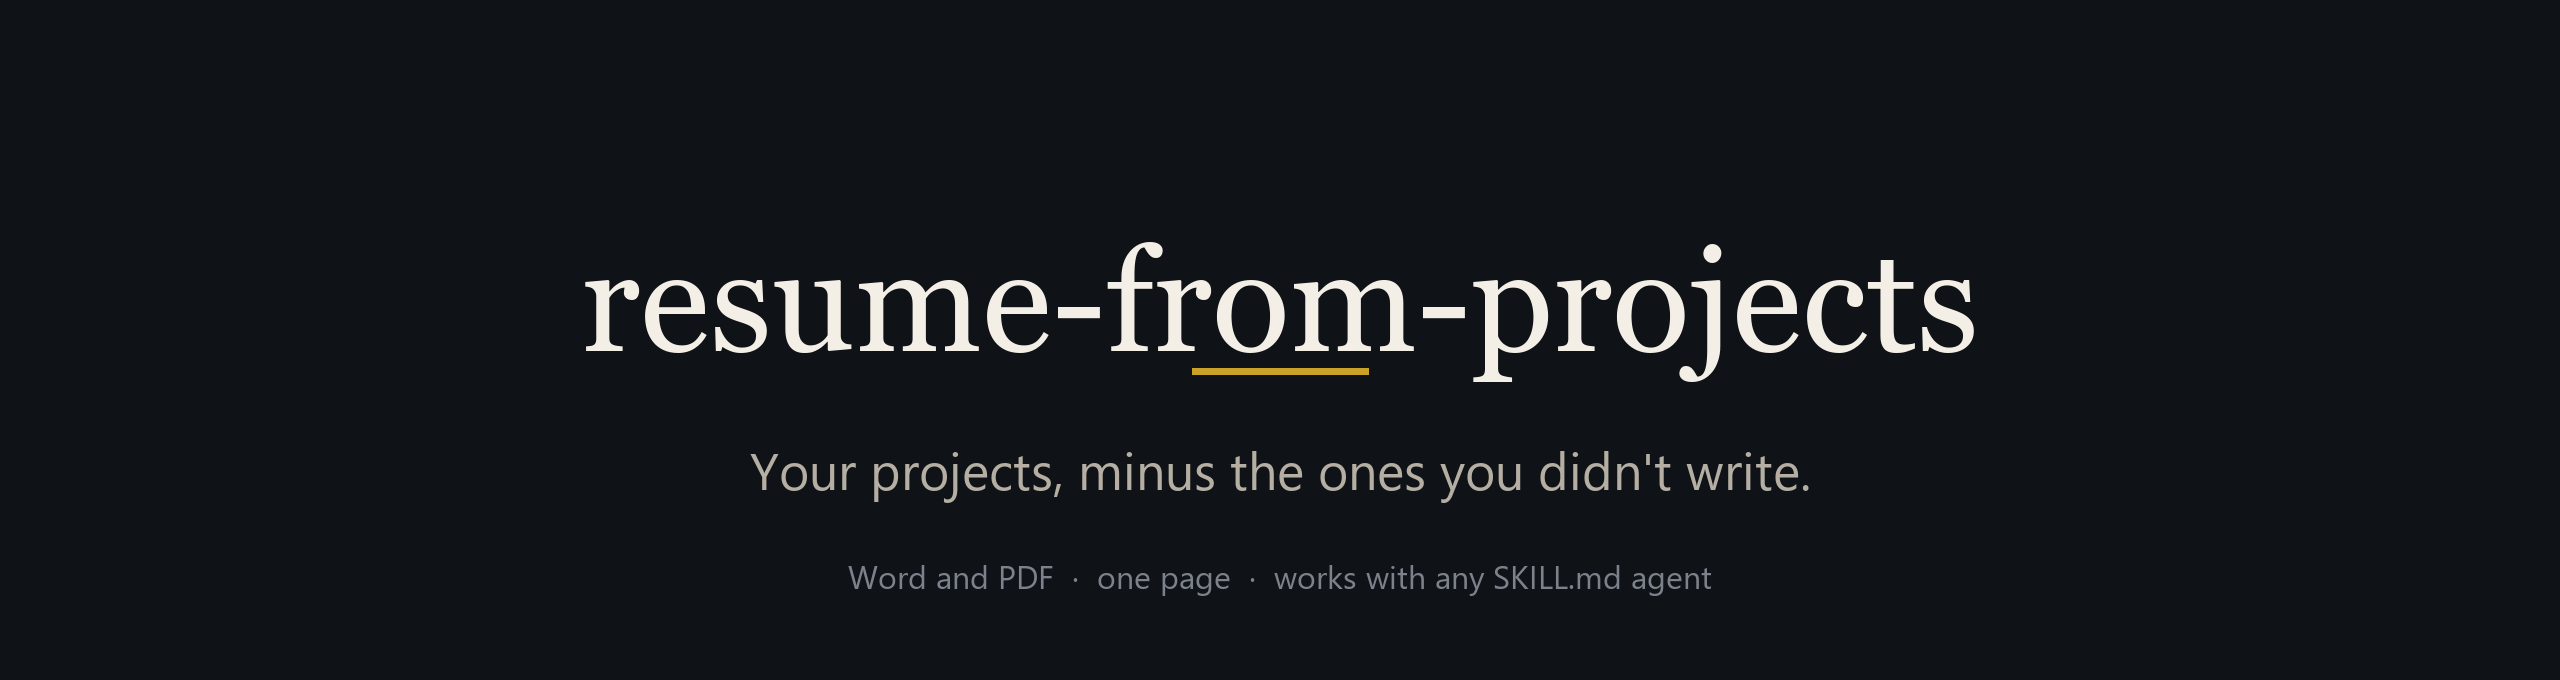
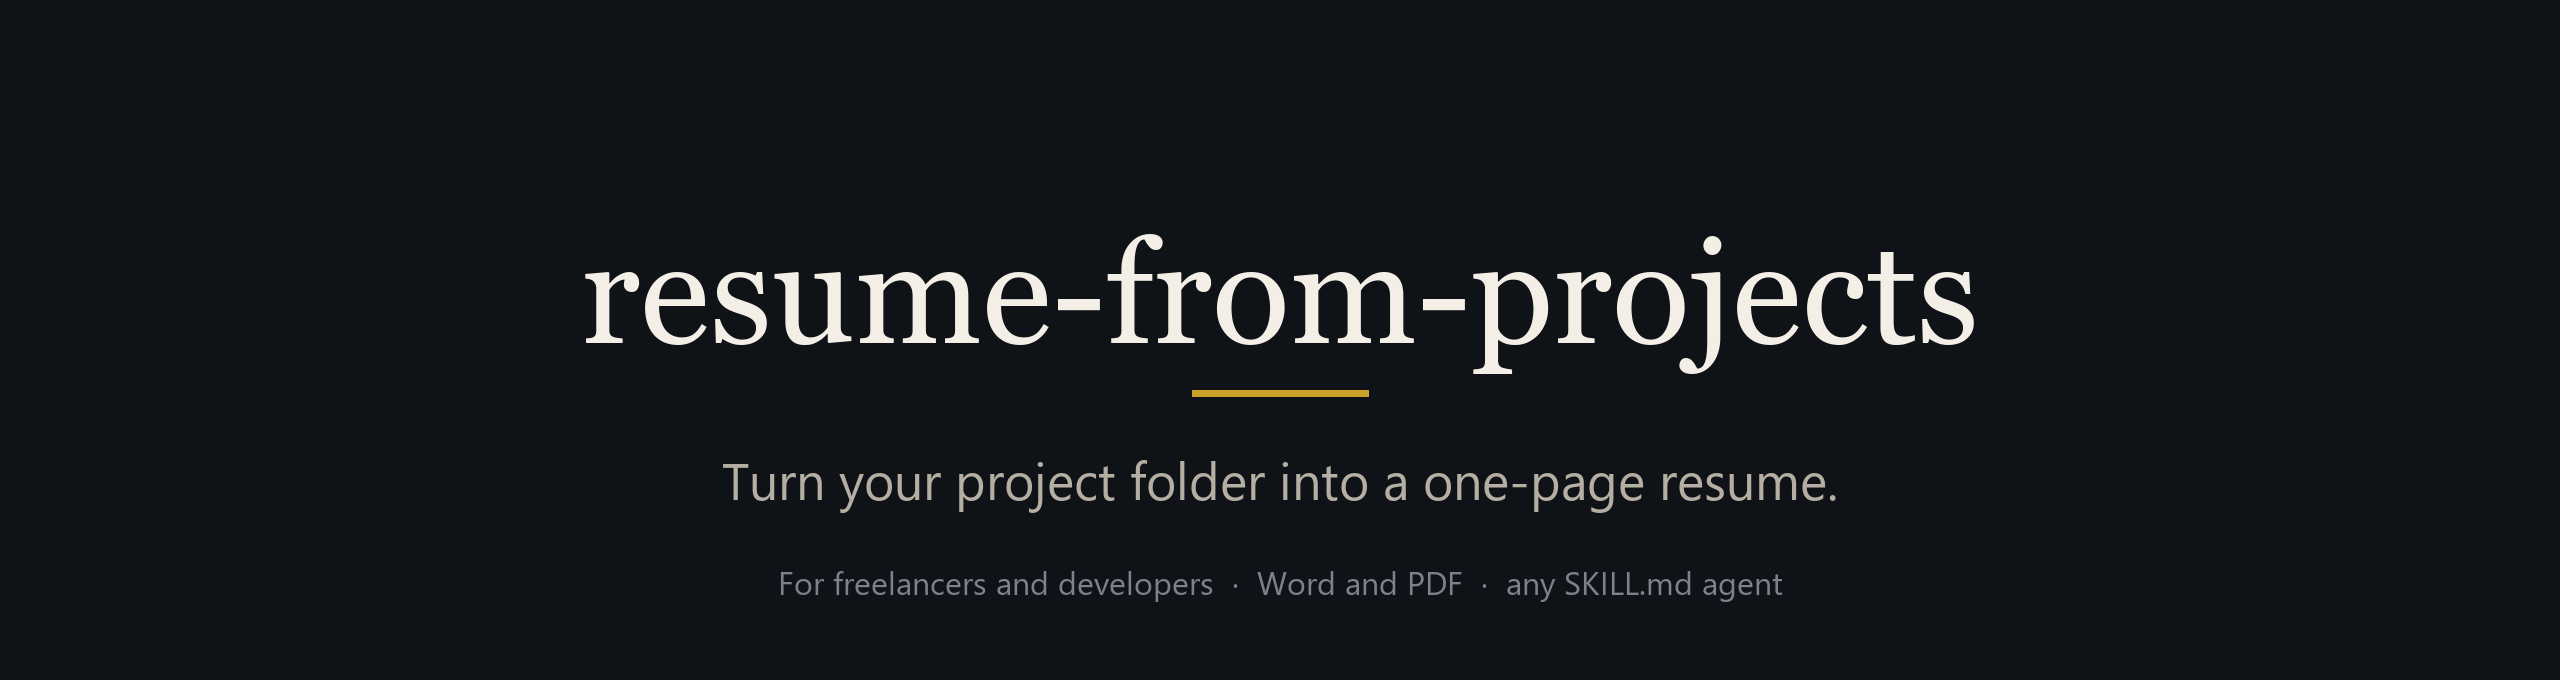
Reframe README for freelancers and developers

diff --git a/README.md b/README.md
@@ -1,5 +1,5 @@
 <p align="center">
-  <img src="assets/banner.png" alt="resume-from-projects: your projects, minus the ones you didn't write" width="880">
+  <img src="assets/banner.png" alt="resume-from-projects: turn your project folder into a one-page resume" width="880">
 </p>
 
 <p align="center">
@@ -9,7 +9,7 @@
   <img src="https://img.shields.io/badge/output-docx%20%2B%20pdf-111111?style=flat-square" alt="Outputs docx and PDF">
 </p>
 
-An agent skill that reads a folder of software projects, throws out the clones, forks, tutorials and other people's code, ranks what is left, and builds a one-page resume as a Word file and a matching PDF.
+An agent skill for freelancers and developers who need a resume without writing one from scratch. Point it at the folder where your projects live. It keeps the work that is yours, writes the bullets from what the code and git history show, and hands you a one-page Word file and a matching PDF.
 
 It does not invent numbers, write inside your project folders, or send source code anywhere.
 
@@ -19,9 +19,17 @@ It does not invent numbers, write inside your project folders, or send source co
 
 <p align="center"><sub>Sample output, built from <a href="assets/demo/resume.json">assets/demo/resume.json</a>. Every detail is invented, including the person.</sub></p>
 
+## Who it is for
+
+Freelancers who need a CV for a client pitch, a platform profile or an agency application. Developers applying for a role, or tailoring the same projects for several. Anyone whose best work is sitting in a folder and not on a page.
+
+The target role you give it changes which projects rank highest. A freelance backend pitch and a data engineering job application produce different shortlists from the same folder.
+
 ## The problem
 
-Ask an agent to write your resume from your projects and it puts everything on the page: the three tutorial clones, the fork where you fixed one bug, the two experiments you abandoned, and the project you actually shipped, all weighted the same and dressed in numbers nobody can trace.
+You have the work. The resume is the part that stalls. Your projects are spread across folders, some of them tutorials or forks, and turning each one into two clean lines is the task you keep postponing.
+
+Ask an agent to do it and it puts everything on the page: the tutorial clones, the fork where you fixed one bug, the experiments you abandoned, and the project you actually shipped, all weighted the same and dressed in numbers nobody can trace.
 
 This skill checks first. It reads git history, verifies authorship, shows you the shortlist with evidence, and writes nothing until you agree with it.
 
@@ -51,6 +59,10 @@ Claude Code reads `~/.claude/skills/`. Codex, OpenCode, Cursor, Gemini CLI and A
 Requirements: Python 3.8+, `python-docx`, `pypdf`, `pdfplumber`, and LibreOffice. `scripts/check_env.py --install` installs the Python packages and runs the LibreOffice installer when it is missing.
 
 ## Examples
+
+**Build it for freelance work.**
+
+> Turn ~/code into a one-page resume for freelance backend work. Pick projects with real clients and skip anything that started as a tutorial.
 
 **Pick the best automatically.**
 
@@ -147,6 +159,9 @@ python3 scripts/verify_pdf.py "$WORK/out/<name>.pdf" --resume "$WORK/resume.json
 ```
 
 ## FAQ
+
+**Is this for job applications or freelance work?**
+Both. You get a standard one-page resume. Give it a target role for a job application, or the service you sell for a client pitch, and the ranking and summary follow that.
 
 **Does it need my GitHub account?**
 No. It reads local git history and config. Pass your commit email or handle when they differ from your git config. The name-collision search runs through your agent's search tool, and is skipped when the agent has none.

diff --git a/skills/resume-from-projects/SKILL.md b/skills/resume-from-projects/SKILL.md
@@ -1,6 +1,6 @@
 ---
 name: resume-from-projects
-description: Scans a directory of software projects, verifies which ones are the user's own real-world work (not clones, forks, tutorials or popular open-source code), picks the strongest N, and produces a one-page resume as a Word .docx and a PDF. Use when the user says things like "make a resume from my projects", "build a resume from this folder", "pick my best projects for a resume", "turn my GitHub projects into a CV", or "which of my projects should go on my resume".
+description: Turns a folder of software projects into a one-page resume (Word .docx and PDF) in one pass, for freelancers and developers. Verifies which projects are the user's own real-world work (not clones, forks, tutorials or popular open-source code) and picks the strongest N. Use when the user says things like "make a resume from my projects", "build a resume from this folder", "pick my best projects for a resume", "turn my GitHub projects into a CV", "turn my projects into a freelance resume", or "which of my projects should go on my resume".
 ---
 
 # resume-from-projects
